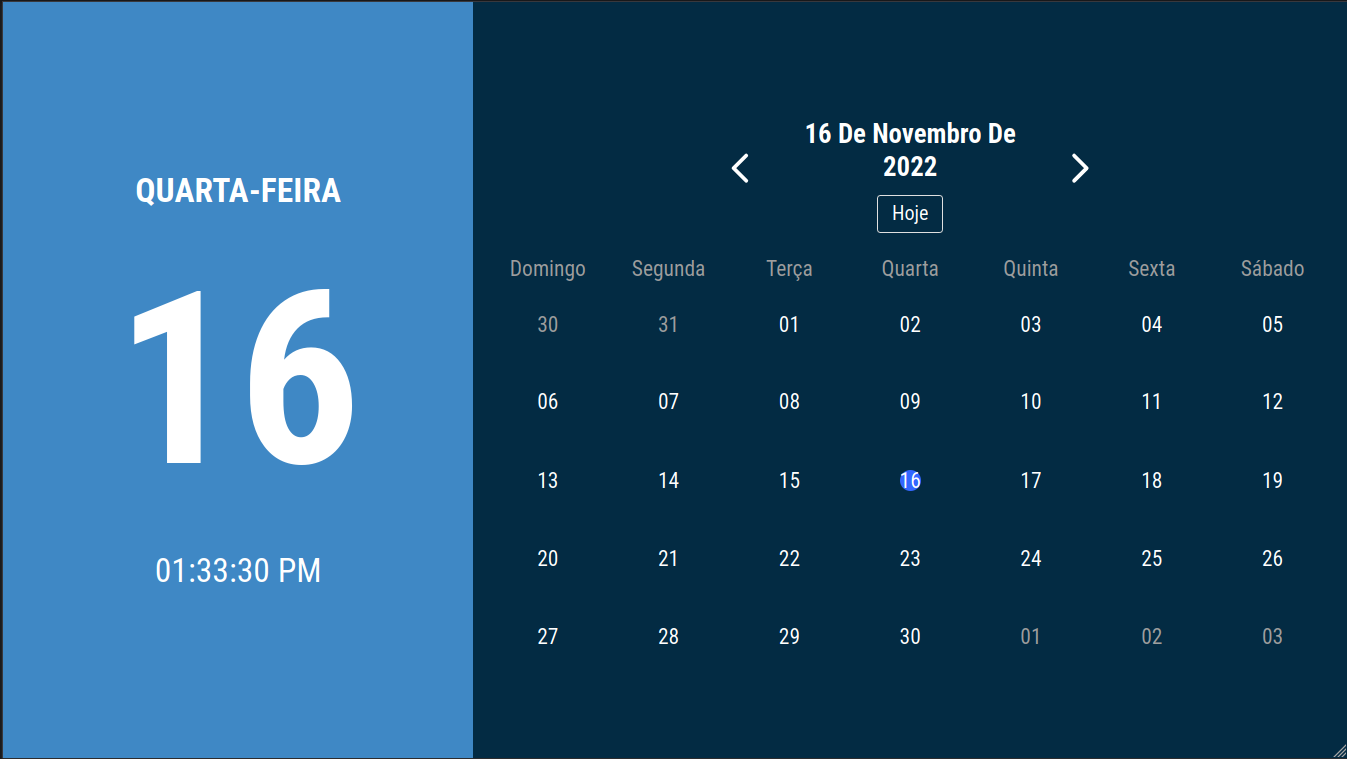
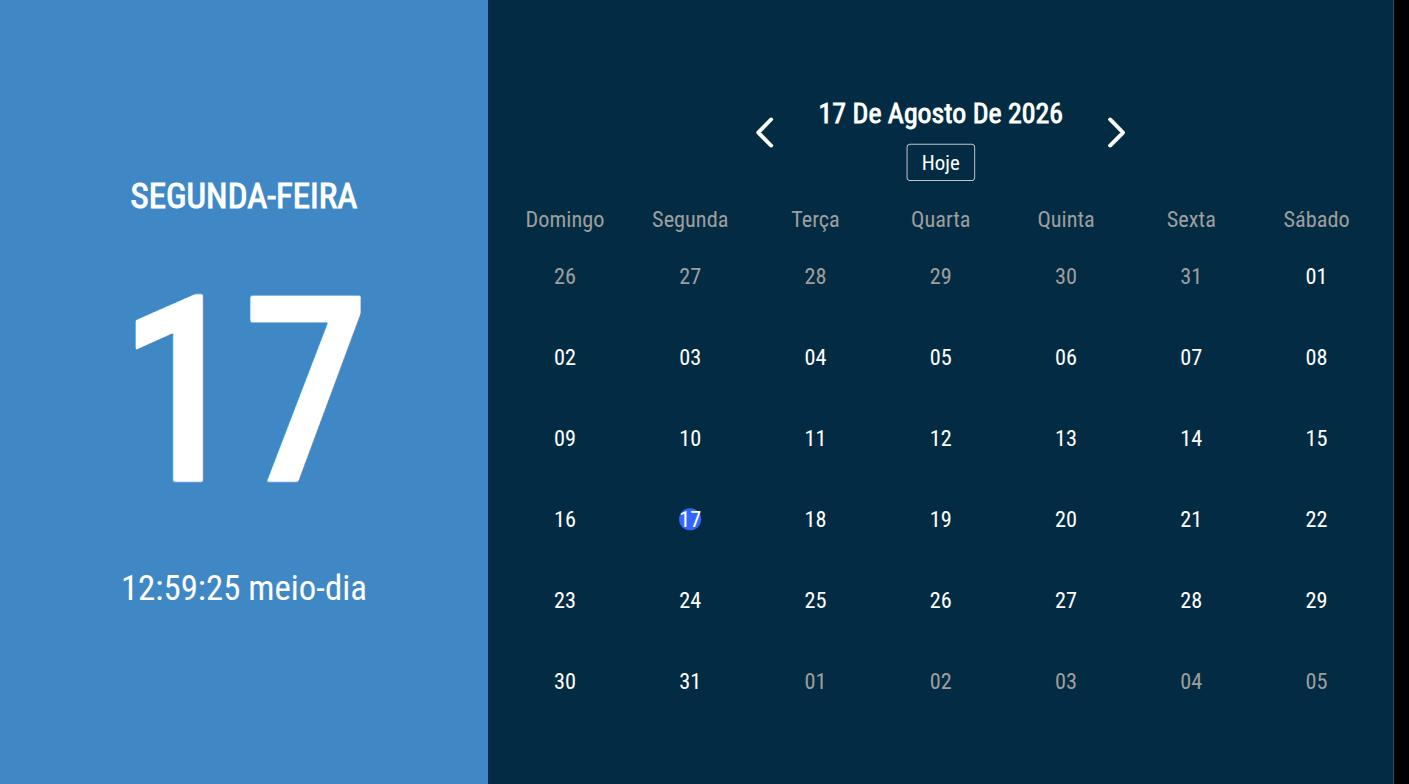
📸 refresh per-screen-format documentation screenshots
Regenerates landscape/portrait/square screenshots against the current
Vite/React 19 build (the previous ones predated that migration and no
longer matched the rendered layout). Drops the stale horizontal-banner
screenshot and documents that both banner formats are unsupported: the
fixed today-panel + month-grid layout clips or squeezes illegibly at
extreme aspect ratios.

diff --git a/templates/simple-calendar/README.md b/templates/simple-calendar/README.md
@@ -12,9 +12,7 @@ A [React](https://reactjs.org/) [HTML-based template](https://developers.dsplay.
 |-----------|----------|--------|
 | ![Landscape](docs/screenshots/landscape.png) | ![Portrait](docs/screenshots/portrait.png) | ![Square](docs/screenshots/square.png) |
 
-| Horizontal banner |
-|--------------------|
-| ![Horizontal Banner](docs/screenshots/horizontalBanner.png) |
+> This template's fixed side-by-side layout (today panel + full month grid) doesn't adapt to extreme aspect ratios: the horizontal banner format clips roughly half the calendar grid vertically, and the vertical banner format squeezes the weekday header and navigation arrows off-screen with illegibly tiny date numbers. Screenshots for those formats are omitted here until the layout is made responsive to short/narrow viewports.
 
 ## Template variables
 
